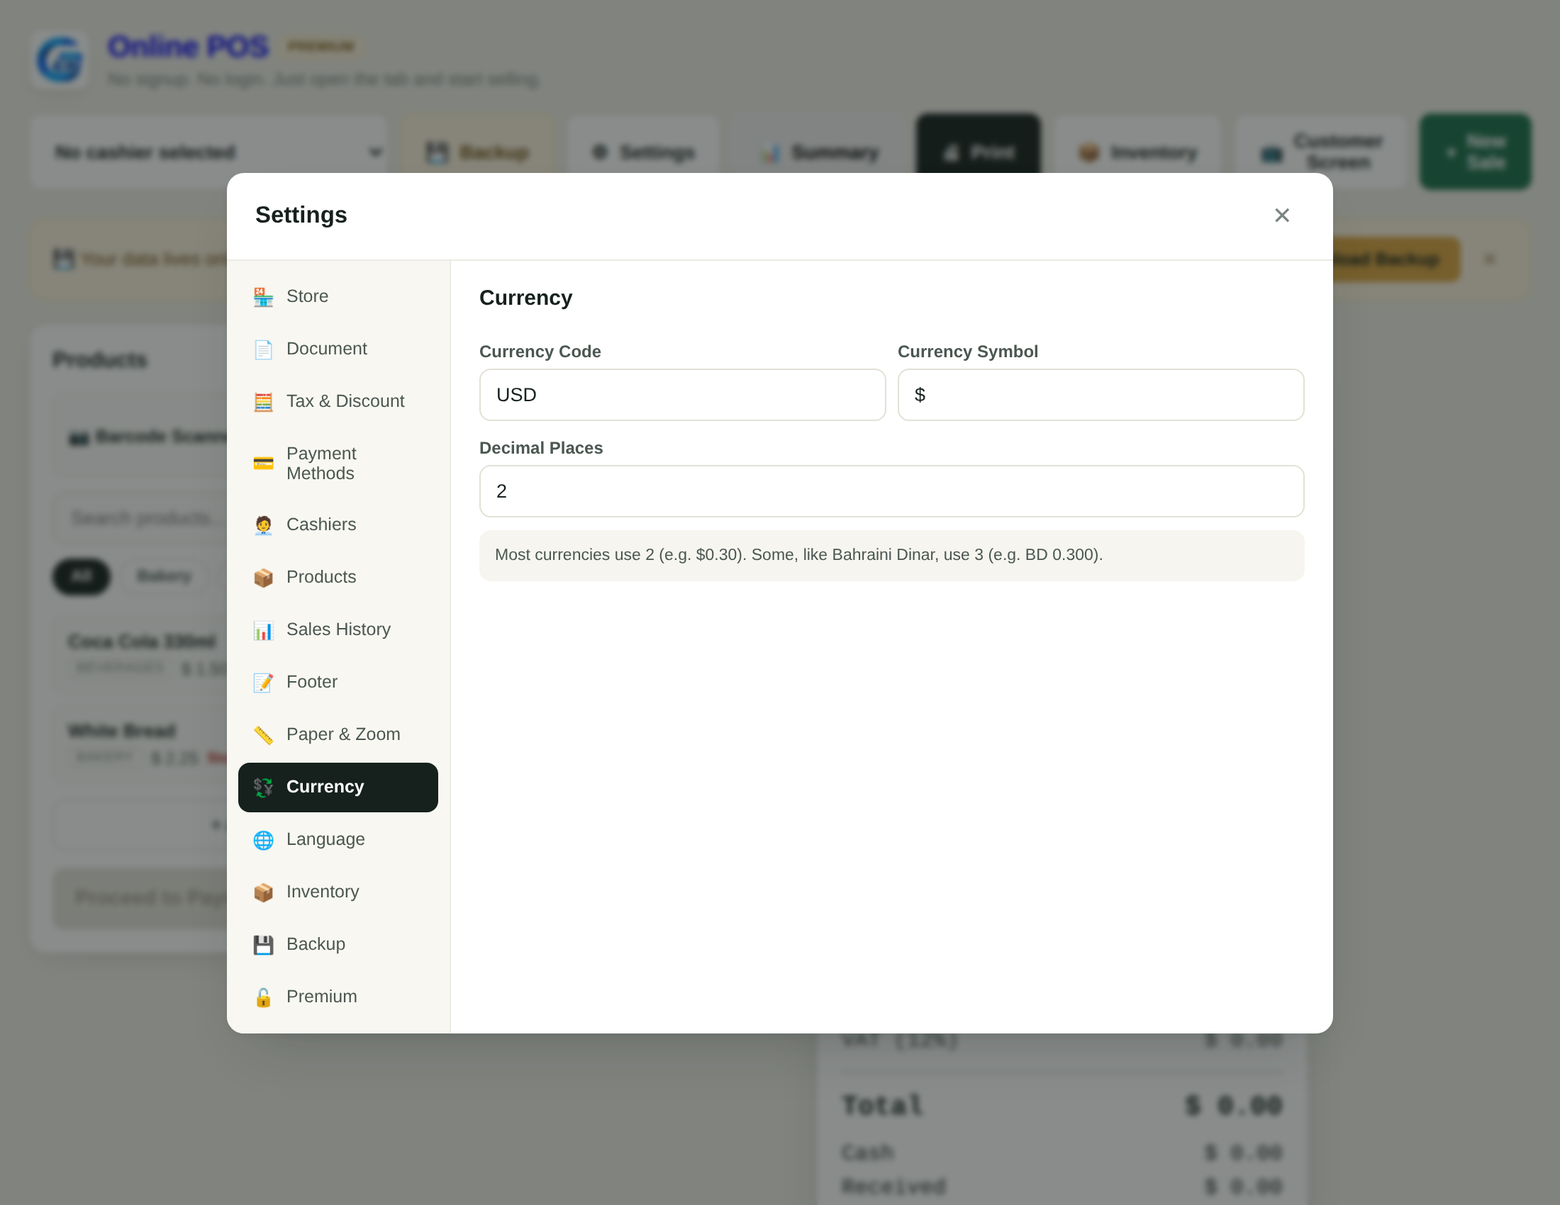
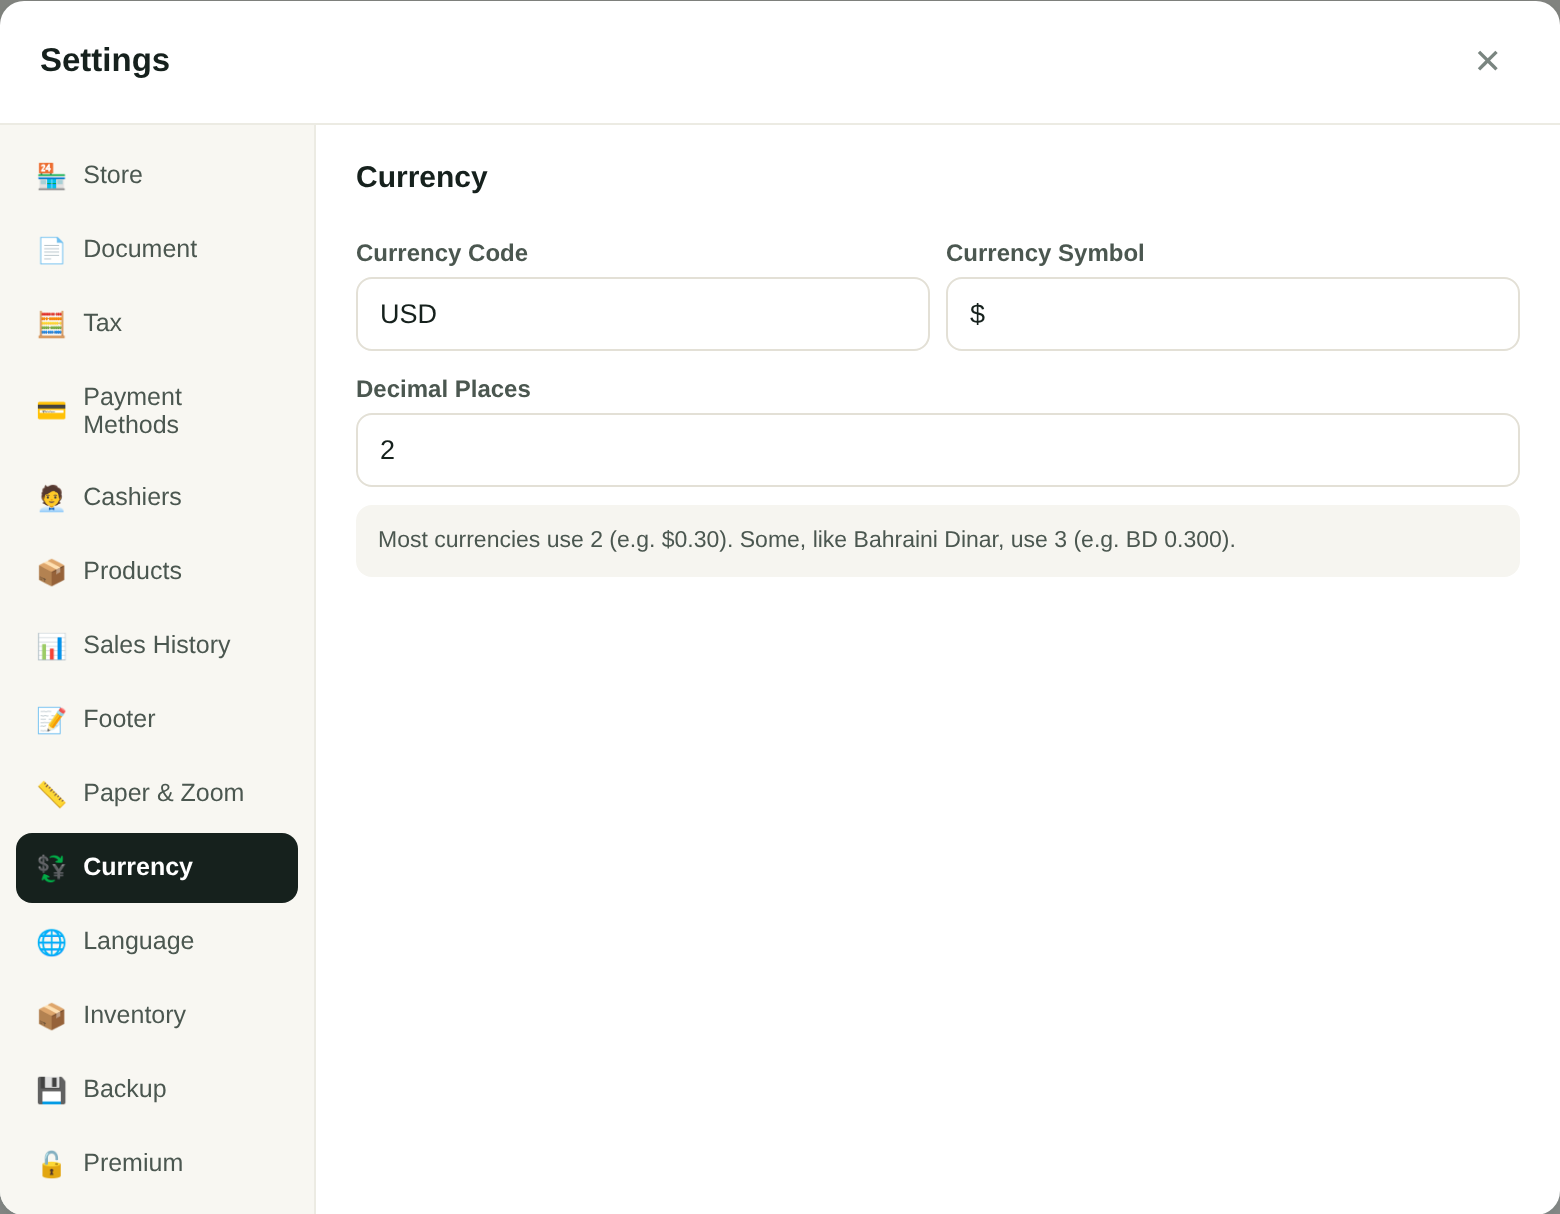
Regenerate guide screenshots at high-DPI, tightly cropped to current UI
The 19 guide-*.png screenshots were full-viewport captures (lots of
dead background around a small modal) built from empty/placeholder
data, and several were already stale against the current app - the Tax
tab screenshot still showed a "Discount" field and "Tax & Discount"
tab label, and the settings tab rail itself still hardcoded "Tax &
Discount" even though the panel content had already been renamed to
"Tax" when discount moved to per-sale checkout.

Fixed the tab rail label, then rebuilt every screenshot with Playwright
at 2x device scale, seeded with realistic sample data (products,
cashiers, payment methods, two completed sales, low-stock items) and
clipped tightly to the actual modal/panel instead of the full window -
most are smaller in file size despite being sharper, since there's no
more wasted backdrop. The Backup and Offline Version shots, which used
to be identical full-tab captures, are now cropped to their own
sections. The index.html teaser grid was re-pointed at four
dimensionally-consistent screenshots and given a matching aspect-ratio
crop so the cards line up evenly instead of the mismatched heights the
original four (very different aspect ratios) produced.

Verified with Playwright: zero broken images (including after
scrolling past lazy-loaded ones) and zero console errors on both
guide.html and index.html.

diff --git a/index.html b/index.html
@@ -204,7 +204,7 @@ img { max-width: 100%; display: block; }
 .step-card { background: var(--panel); border: 1px solid var(--line); border-radius: var(--radius); padding: 22px 20px; box-shadow: var(--shadow); }
 
 .guide-teaser-grid { display: grid; grid-template-columns: repeat(4, 1fr); gap: 14px; max-width: 820px; margin: 0 auto 32px; }
-.guide-teaser-grid img { width: 100%; border-radius: var(--radius); border: 1px solid var(--line); box-shadow: var(--shadow); }
+.guide-teaser-grid img { width: 100%; aspect-ratio: 1560 / 1214; object-fit: cover; object-position: top; border-radius: var(--radius); border: 1px solid var(--line); box-shadow: var(--shadow); }
 .guide-teaser-cta { text-align: center; }
 @media (max-width: 700px) {
   .guide-teaser-grid { grid-template-columns: repeat(2, 1fr); }
@@ -470,9 +470,9 @@ img { max-width: 100%; display: block; }
 
 <div class="guide-teaser-grid">
 <img src="guide-catalog.png" alt="Go Online POS main product catalog screen" loading="lazy">
-<img src="guide-products.png" alt="Products settings tab with product list and CSV upload" loading="lazy">
-<img src="guide-inventory.png" alt="Inventory settings tab showing stock levels grouped by category" loading="lazy">
-<img src="guide-offline.png" alt="Offline Version section in Settings, with a Download Offline POS button" loading="lazy">
+<img src="guide-store.png" alt="Store settings tab showing store name, address, and logo upload" loading="lazy">
+<img src="guide-salesHistory.png" alt="Sales history tab showing a completed sale grouped by date" loading="lazy">
+<img src="guide-premium.png" alt="Premium settings tab with code activation" loading="lazy">
 </div>
 <div class="guide-teaser-cta">
 <a class="btn-primary" href="guide.html">See the Full Guide →</a>

diff --git a/app.html b/app.html
@@ -796,7 +796,7 @@ input:focus, textarea:focus, select:focus { outline: none; border-color: var(--a
     <div class="settings-tab-rail" id="settingsTabRail">
       <button class="settings-tab-item" data-tab="store" onclick="selectSettingsTab('store')">🏪 <span>Store</span></button>
       <button class="settings-tab-item" data-tab="document" onclick="selectSettingsTab('document')">📄 <span>Document</span></button>
-      <button class="settings-tab-item" data-tab="tax" onclick="selectSettingsTab('tax')">🧮 <span>Tax &amp; Discount</span></button>
+      <button class="settings-tab-item" data-tab="tax" onclick="selectSettingsTab('tax')">🧮 <span>Tax</span></button>
       <button class="settings-tab-item" data-tab="paymentMethods" onclick="selectSettingsTab('paymentMethods')">💳 <span>Payment Methods</span></button>
       <button class="settings-tab-item" data-tab="cashiers" onclick="selectSettingsTab('cashiers')">🧑💼 <span>Cashiers</span></button>
       <button class="settings-tab-item" data-tab="products" onclick="selectSettingsTab('products')">📦 <span>Products</span></button>
